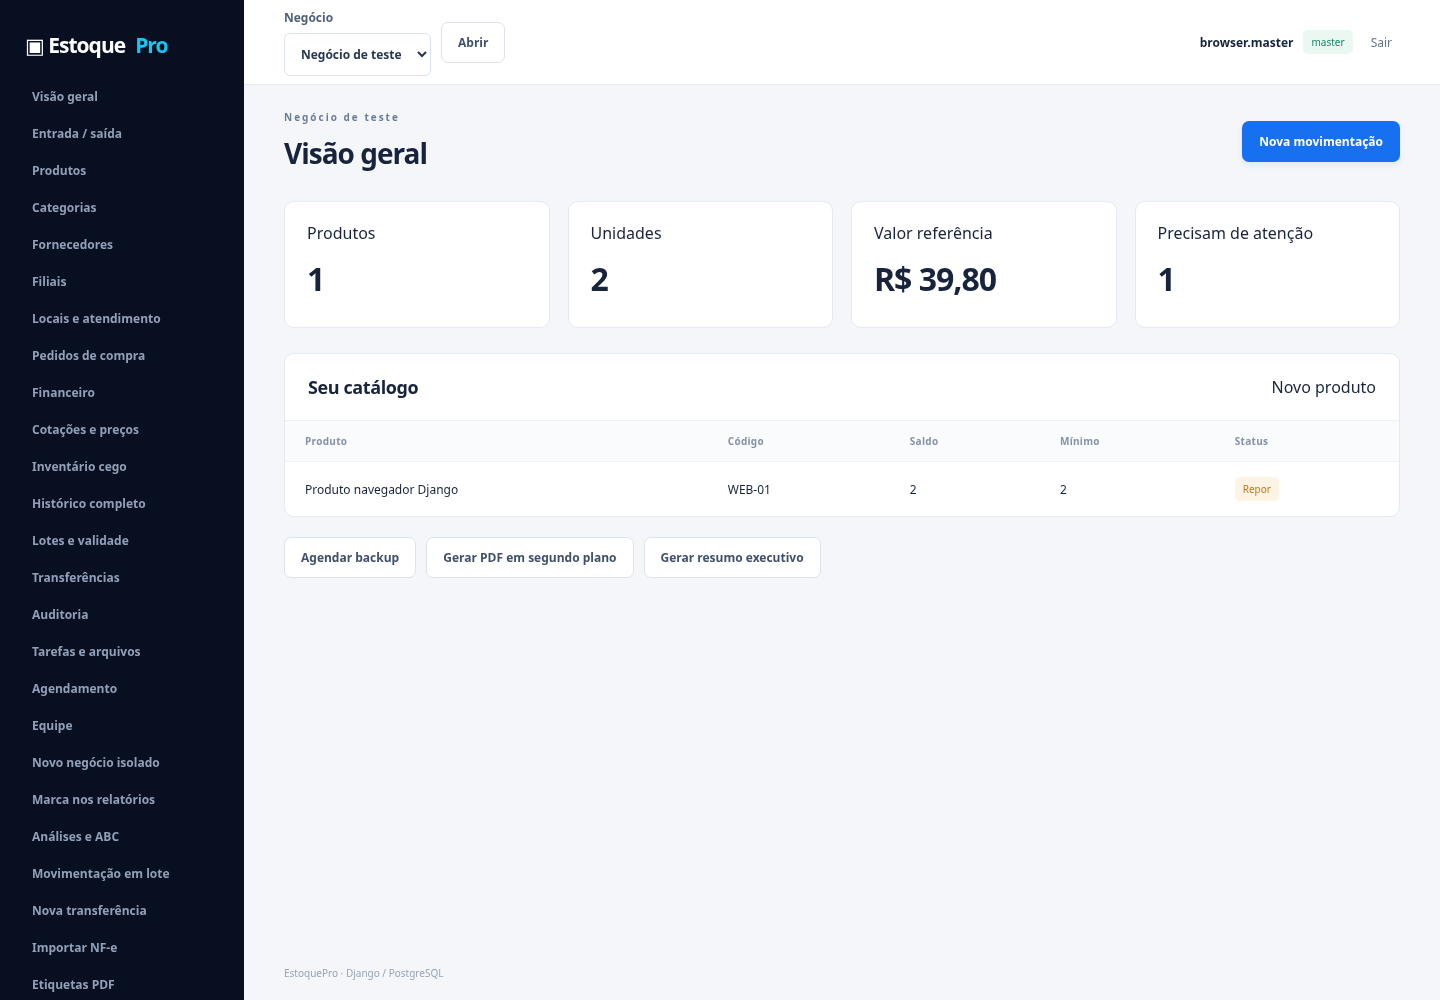
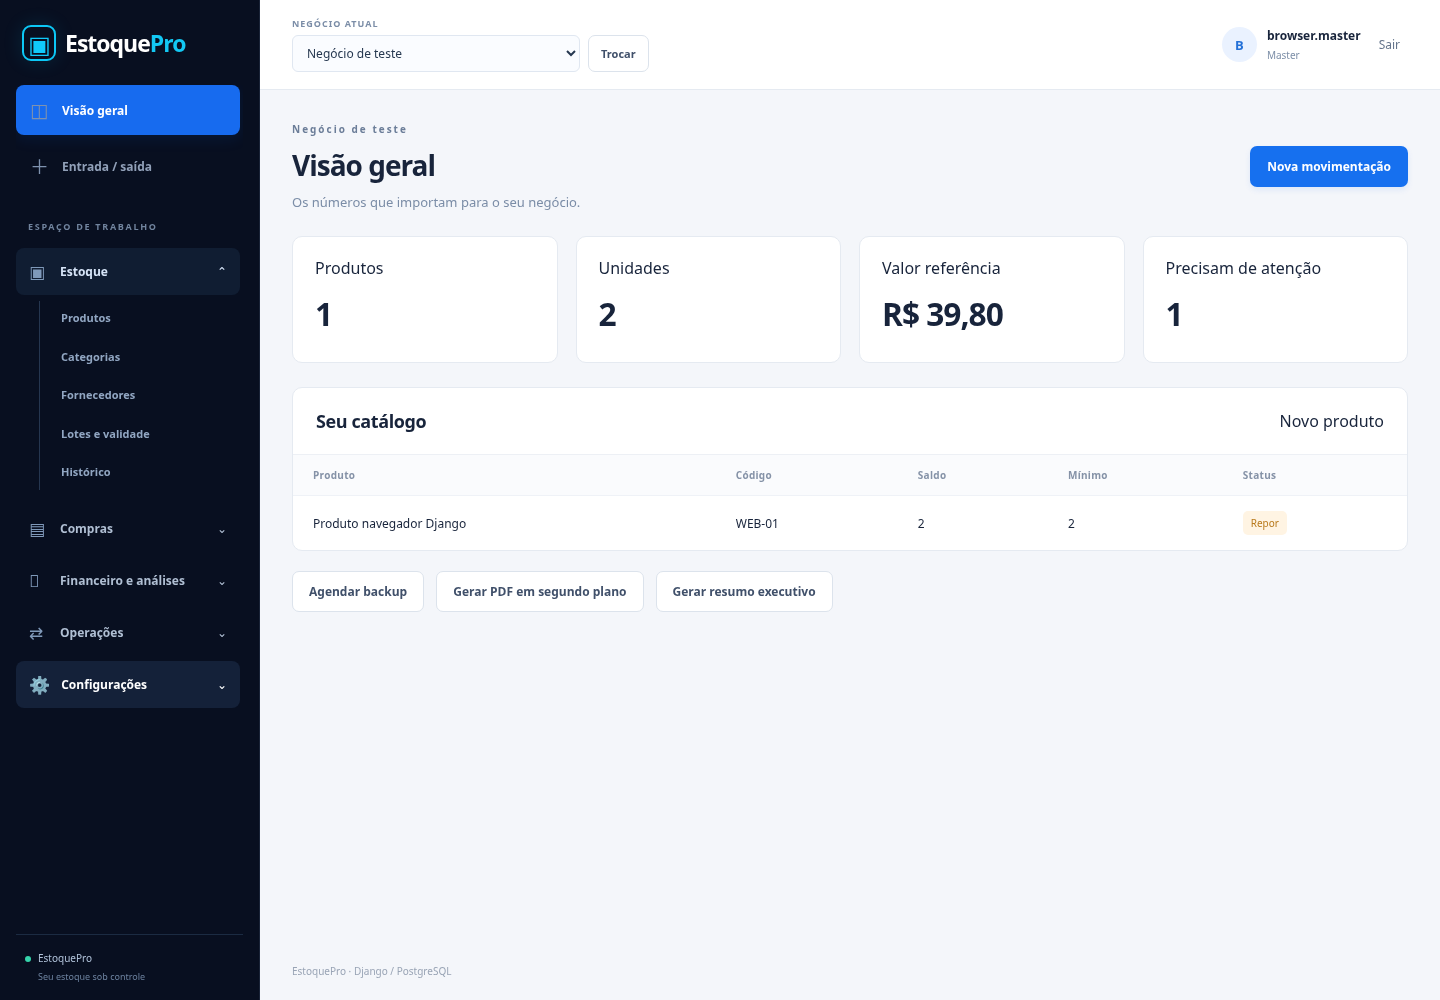
docs: registrar validacao visual e fluxos simplificados

diff --git a/docs/MIGRACAO_DJANGO.md b/docs/MIGRACAO_DJANGO.md
@@ -77,3 +77,13 @@ Por decisão do solicitante, domínio, SMTP e canais de suporte/WhatsApp permane
 - Ainda não houve auditoria externa de segurança, teste de carga, SLA comercial ou implantação HTTPS pública. Dockerfile/Compose são preparação; execução local validada usa PostgreSQL em container e Django no ambiente virtual.
 
 Essas pendências impedem afirmar que todos os recursos comerciais estão concluídos ou que o produto está pronto para venda. O MVP Django é demonstrável; o processo de lançamento continua após a apresentação.
+
+## Revisão de usabilidade — acesso, navegação, cadastro e planos
+
+- Entrar/Cadastro usam o estilo visual da primeira versão, com links destacados, layout responsivo e autenticação real Django.
+- Menu agrupado por Estoque, Compras, Financeiro e análises, Operações e Configurações; grupos recolhíveis e atalhos filtrados por permissão. Menu móvel abre em painel e preserva espaço para o conteúdo.
+- Cabeçalho com negócio selecionado, identidade e perfil. Planos agora recebe o contexto do negócio pela mesma camada de isolamento das outras telas; não mostra aviso de expiração por contexto ausente.
+- Produtos podem ser criados sem pré-cadastros: categoria omitida usa/cria Geral no mesmo negócio, fornecedor é opcional e ambos podem ser criados no formulário. A operação é transacional e respeita unicidade/quota. Custos e saldo continuam sendo definidos por movimentação; não se inventa entrada na criação do produto.
+- Campos e colunas traduzidos, dicas de preenchimento, opções avançadas recolhidas, atalho Registrar entrada com produto pré-selecionado e seleção automática de local somente quando houver um único local.
+- Planos em cartões com períodos mensal/semestral/anual e valores consistentes. A seleção altera apenas a apresentação: não contrata nem cobra.
+- Para o Criador, cabeçalho, Planos e Assinatura exibem acesso Completo permanente, sem cobrança/renovação ou vencimento. Isso deriva do privilégio exclusivo do usuário, não altera o plano de outras contas do negócio nem cria uma assinatura paga fictícia. Os recursos externos ainda pendentes continuam pendentes para todos, inclusive para o Criador.

diff --git a/docs/testes/django.md b/docs/testes/django.md
@@ -29,3 +29,11 @@ Execução validada em Linux/Python 3.12/PostgreSQL 17/Chromium; Windows e Docke
 ## Diagnóstico de instalação no CachyOS
 
 Três testes unitários do helper (`python -m unittest discover -s tests -p test_runtime.py -v`) aprovados: CLI Docker ausente, permissão negada e preservação do contexto Docker Desktop fora do executor gerenciado. Setup agora verifica o daemon antes de tentar criar o banco; os comandos de aplicação verificam conectividade PostgreSQL antes de emitir traceback por banco indisponível. A instalação de pacotes na máquina CachyOS do usuário depende de execução local pelo usuário.
+
+## Revisão de usabilidade e acesso do Criador
+
+`python scripts/dev.py test inventory --noinput`: **31 testes aprovados**, zero falhas/erros/ignorados, 51,159 s na execução final. Inclui três fluxos Playwright: login/cadastro e primeiro produto sem categoria/fornecedor prévios; operações de estoque e menu agrupado em desktop/mobile; Criador com acesso Completo permanente e seleção dos três períodos dos planos.
+
+Verificados: Categoria Geral criada/reutilizada por negócio; fornecedor opcional; criação de categoria/fornecedor no mesmo formulário; POST de cadastro simples; isolamento mantido; preços 150/750/1500; contexto de Planos preservado; ausência de “Não contratado”, vencimento e botão de renovação no acesso do Criador; rótulos/erros e fluxo de autenticação; cabeçalho separado do conteúdo; menu recolhível e painel móvel com abertura/fechamento; sem overflow global em 390px. A primeira tentativa do teste móvel encontrou dois controles com o mesmo nome acessível; o botão do fundo recebeu nome distinto e o fluxo completo foi repetido com sucesso.
+
+Capturas atualizadas em `docs/prototipos/`: `acesso-django-*`, `cadastro-django-mobile.png`, `django-desktop.png`, `django-mobile.png`, `django-menu-mobile.png`, `produto-simples-mobile.png`, `planos-django-*` e `criador-completo-mobile.png`. Credenciais usadas nos testes são sintéticas e não são as do Criador real. Nenhuma cobrança ou funcionalidade externa foi ativada nesta revisão.

diff --git a/README.md b/README.md
@@ -98,3 +98,7 @@ sudo usermod -aG docker "$USER"
 ```
 
 Saia da sessão do KDE e entre novamente para aplicar o grupo. Em um terminal novo, confirme `docker info` e só então execute `python scripts/dev.py setup`. Se setup falhar, não prossiga para `provision_creator`: o banco ainda não está pronto. Não execute o projeto inteiro com sudo e não apague `data/` ou volumes.
+
+### Interface e primeiro produto
+
+A navegação está agrupada e os formulários mostram orientações. Para cadastrar o primeiro produto, informe código e nome, mantendo os valores padrão se necessário: a categoria Geral é automática e fornecedor é opcional. Depois use **Registrar entrada** para informar quantidade e custo de compra. Categorias/fornecedores também podem ser criados no próprio formulário em **Organização e fornecedor**. O Criador vê **Completo — acesso permanente do Criador** em Assinatura e não precisa contratar um plano.
